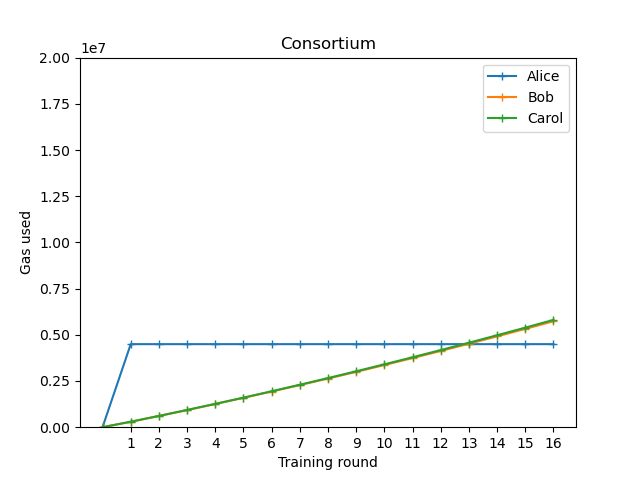
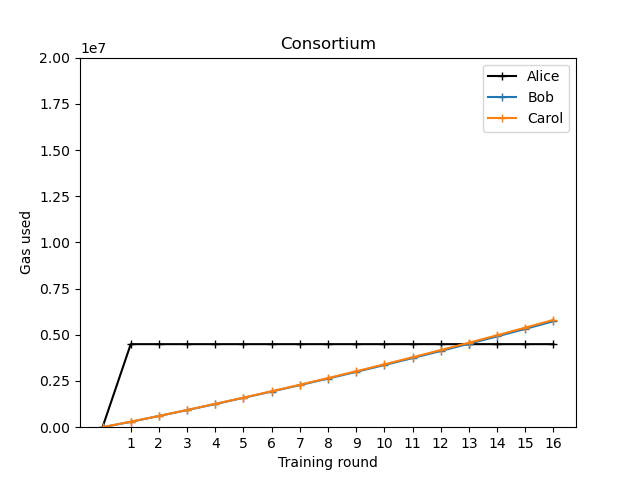
Consistent colours in plots
So each name, always has the same colour

diff --git a/scripts/plot_tokens.py b/scripts/plot_tokens.py
@@ -72,7 +72,9 @@ def counts(results, percent=True):
                 round_idxs,
                 counts,
                 label=name + detail,
-                marker='.')
+                marker='.',
+                color=_PLOT_COLOUR(name)
+            )
         plt.xticks(round_idxs)
         plt.xlabel("Training round")
         if percent:
@@ -104,7 +106,7 @@ def gas_history(results):
                         d[k][str(i)] for k in d.keys()
                     ]) for i in x]
             y.insert(0, 0)
-            plt.plot(y, label=name, marker='+')
+            plt.plot(y, label=name, marker='+', color=_PLOT_COLOUR(name))
         plt.xlabel("Training round")
         plt.xticks(x)
         plt.ylabel("Gas used")
@@ -144,6 +146,13 @@ def make_filepath(r, plot_type):
                 path += "f"
     path += ".png"
     return path
+
+def _PLOT_COLOUR(name):
+    if name=="Alice":
+        return 'black'
+    else:
+        idx = NAMES.index(name)
+        return f"C{idx}"
 
 
 if __name__ == "__main__":
